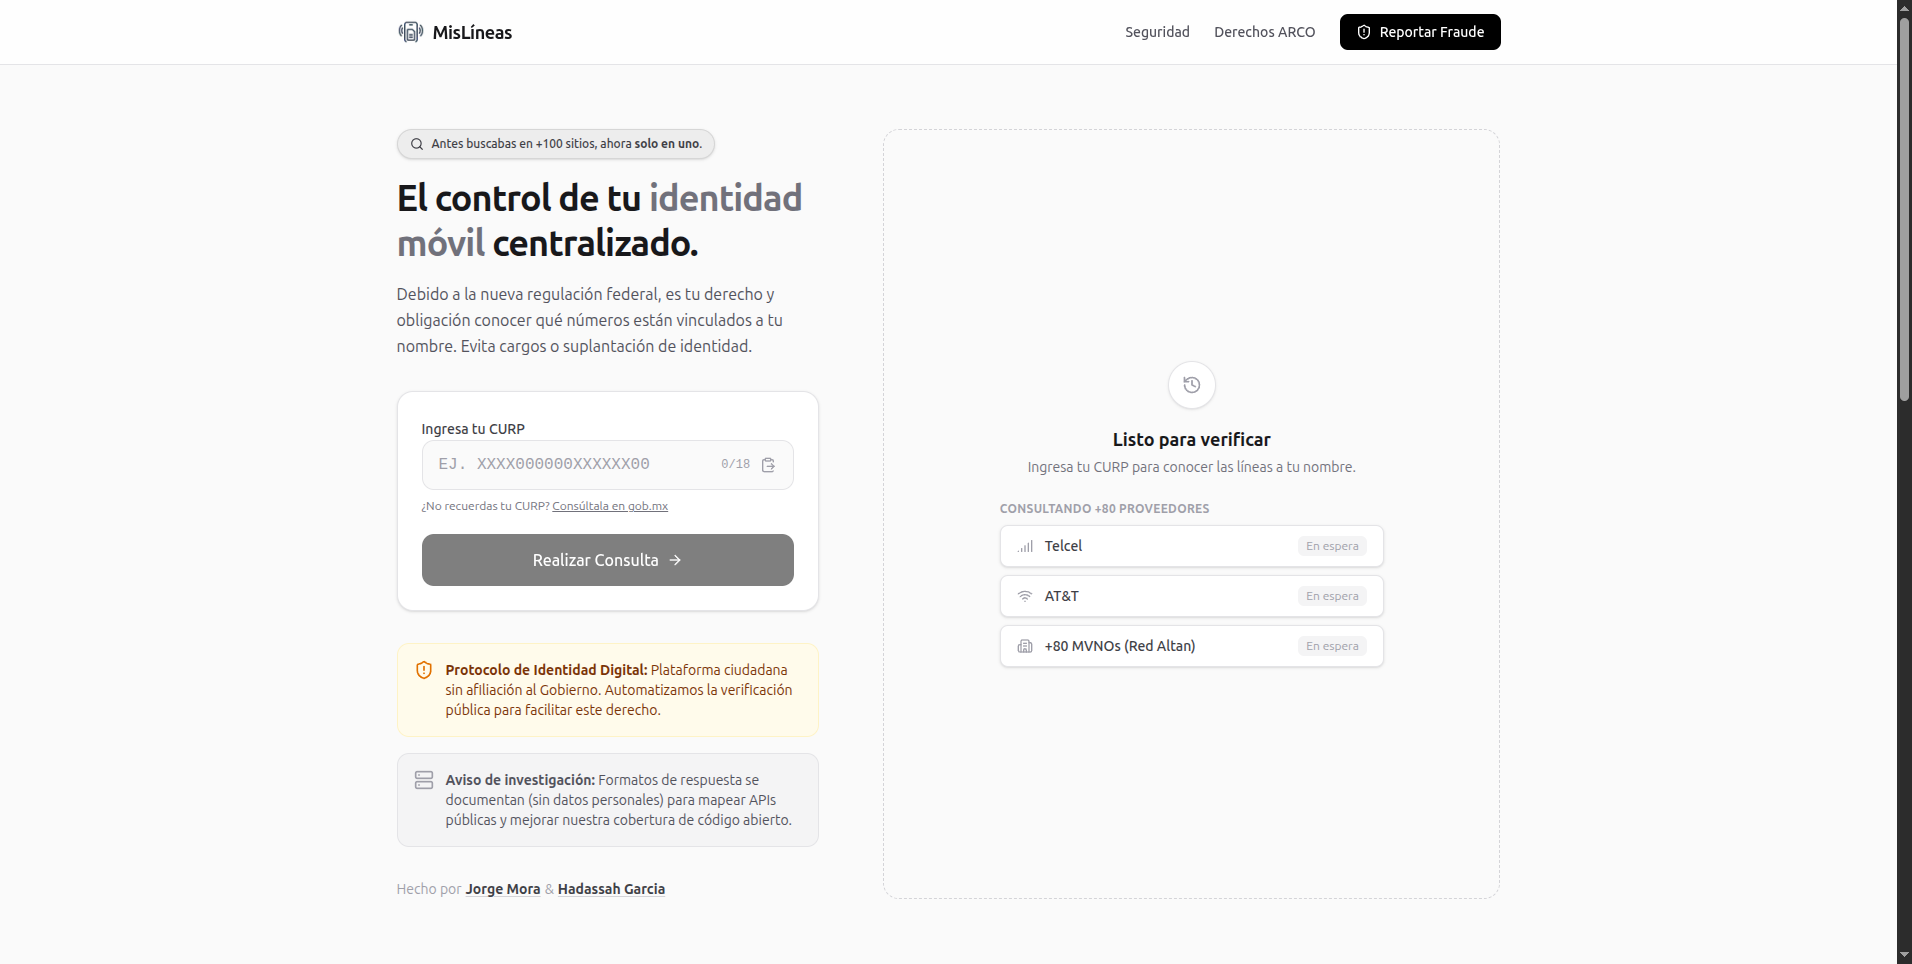
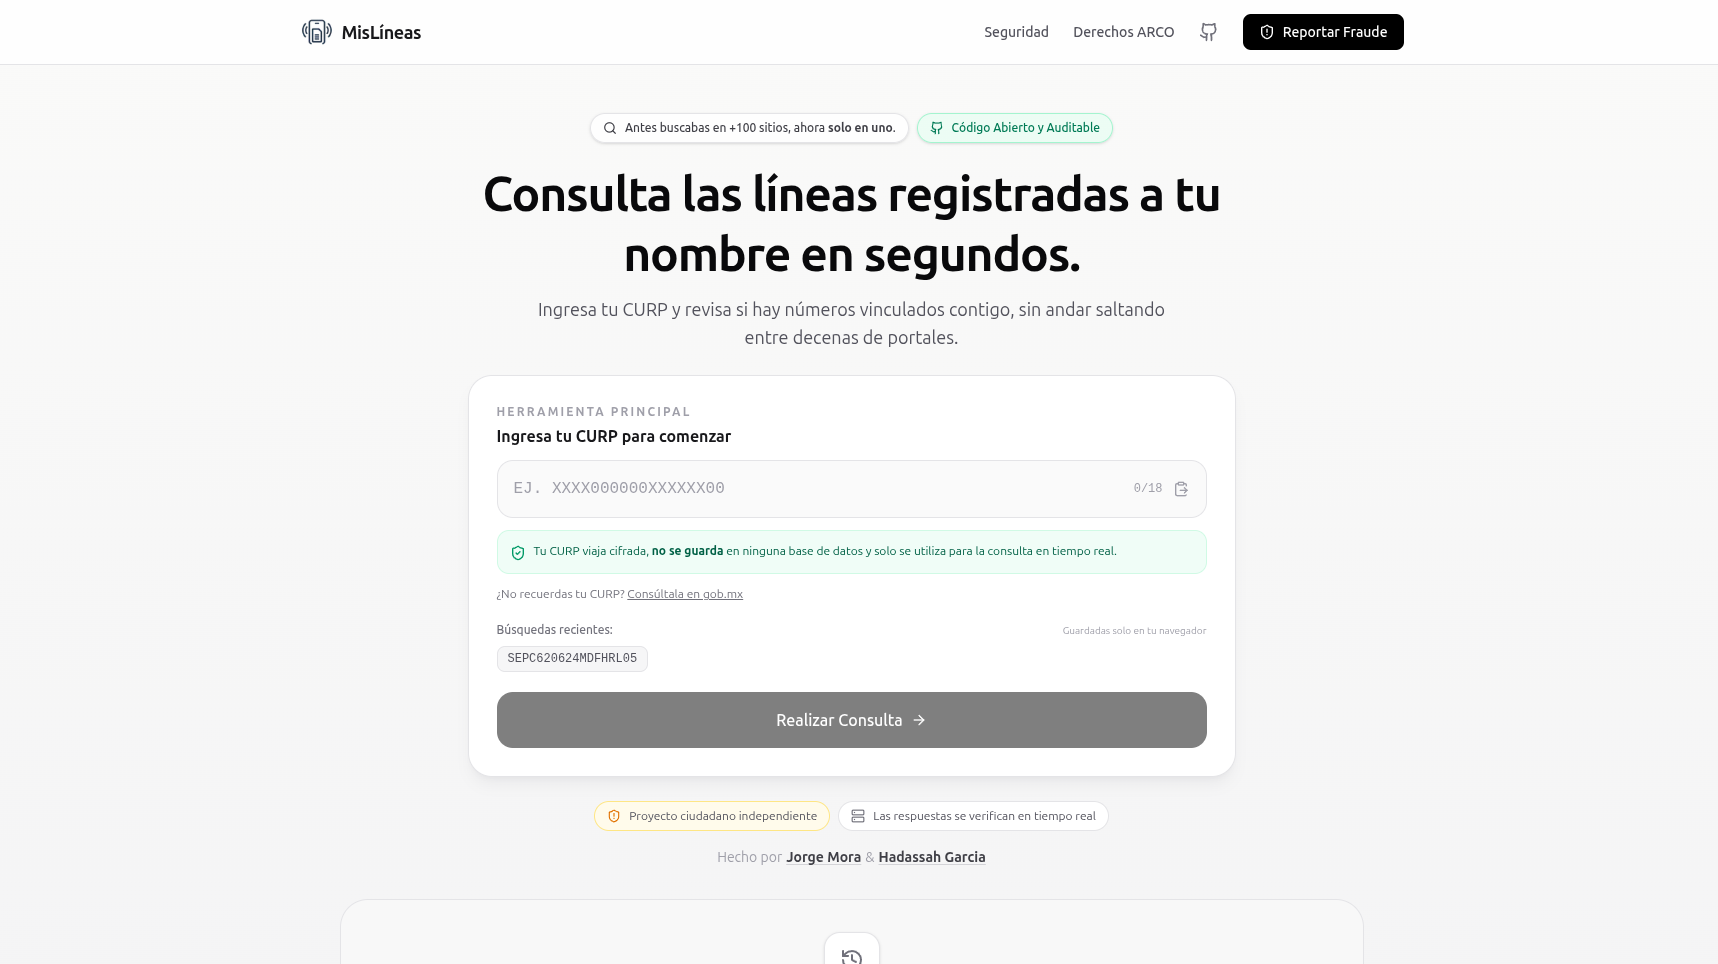
feat: add robots and sitemap generation for improved SEO and site indexing

diff --git a/src/app/layout.tsx b/src/app/layout.tsx
@@ -4,10 +4,19 @@ import { Analytics } from "@vercel/analytics/next";
 import FaviconLight from "@/app/favicon.ico";
 import FaviconDark from "@/app/favicon_dark.ico";
 
+const siteUrl = "https://mislineas.com.mx";
+const siteTitle =
+  "MisLíneas | Consulta líneas telefónicas vinculadas a tu CURP";
+const siteDescription =
+  "Consulta las líneas telefónicas vinculadas a tu CURP en las principales operadoras de México.";
+
 export const metadata: Metadata = {
-  title: "MisLíneas",
-  description:
-    "Consulta las líneas telefónicas vinculadas a tu CURP en las principales operadoras de México.",
+  metadataBase: new URL(siteUrl),
+  title: {
+    default: siteTitle,
+    template: "%s | MisLíneas",
+  },
+  description: siteDescription,
   keywords: [
     "MisLíneas",
     "CURP",
@@ -18,25 +27,35 @@ export const metadata: Metadata = {
     "México",
     "Operadoras",
   ],
+  alternates: {
+    canonical: "/",
+  },
+  applicationName: "MisLíneas",
+  authors: [{ name: "Moraxh", url: "https://github.com/moraxh" }],
+  creator: "Moraxh",
+  publisher: "MisLíneas",
+  category: "utility",
   openGraph: {
-    title: "MisLíneas | Consulta tus líneas telefónicas",
-    description:
-      "Consulta las líneas telefónicas vinculadas a tu CURP en las principales operadoras de México.",
-    url: "https://mislineas.moraxh.dev",
+    title: siteTitle,
+    description: siteDescription,
+    url: "/",
     siteName: "MisLíneas",
     locale: "es_MX",
     type: "website",
     images: [
       {
-        url: "https://mislineas.com.mx/preview.png",
+        url: "/preview.png",
+        width: 1912,
+        height: 964,
+        alt: "MisLíneas, consulta líneas telefónicas vinculadas a tu CURP",
       },
     ],
   },
   twitter: {
     card: "summary_large_image",
-    title: "MisLíneas | Consulta tus líneas telefónicas",
-    description:
-      "Consulta las líneas telefónicas vinculadas a tu CURP en las principales operadoras de México.",
+    title: siteTitle,
+    description: siteDescription,
+    images: ["/preview.png"],
   },
   icons: [
     {

diff --git a/src/app/robots.ts b/src/app/robots.ts
@@ -1,0 +1,14 @@
+import type { MetadataRoute } from "next";
+
+const siteUrl = "https://mislineas.com.mx";
+
+export default function robots(): MetadataRoute.Robots {
+  return {
+    rules: {
+      userAgent: "*",
+      allow: "/",
+      disallow: ["/api/"],
+    },
+    sitemap: `${siteUrl}/sitemap.xml`,
+  };
+}

diff --git a/src/app/sitemap.ts b/src/app/sitemap.ts
@@ -1,0 +1,14 @@
+import type { MetadataRoute } from "next";
+
+const siteUrl = "https://mislineas.com.mx";
+
+export default function sitemap(): MetadataRoute.Sitemap {
+  return [
+    {
+      url: siteUrl,
+      lastModified: new Date(),
+      changeFrequency: "weekly",
+      priority: 1,
+    },
+  ];
+}